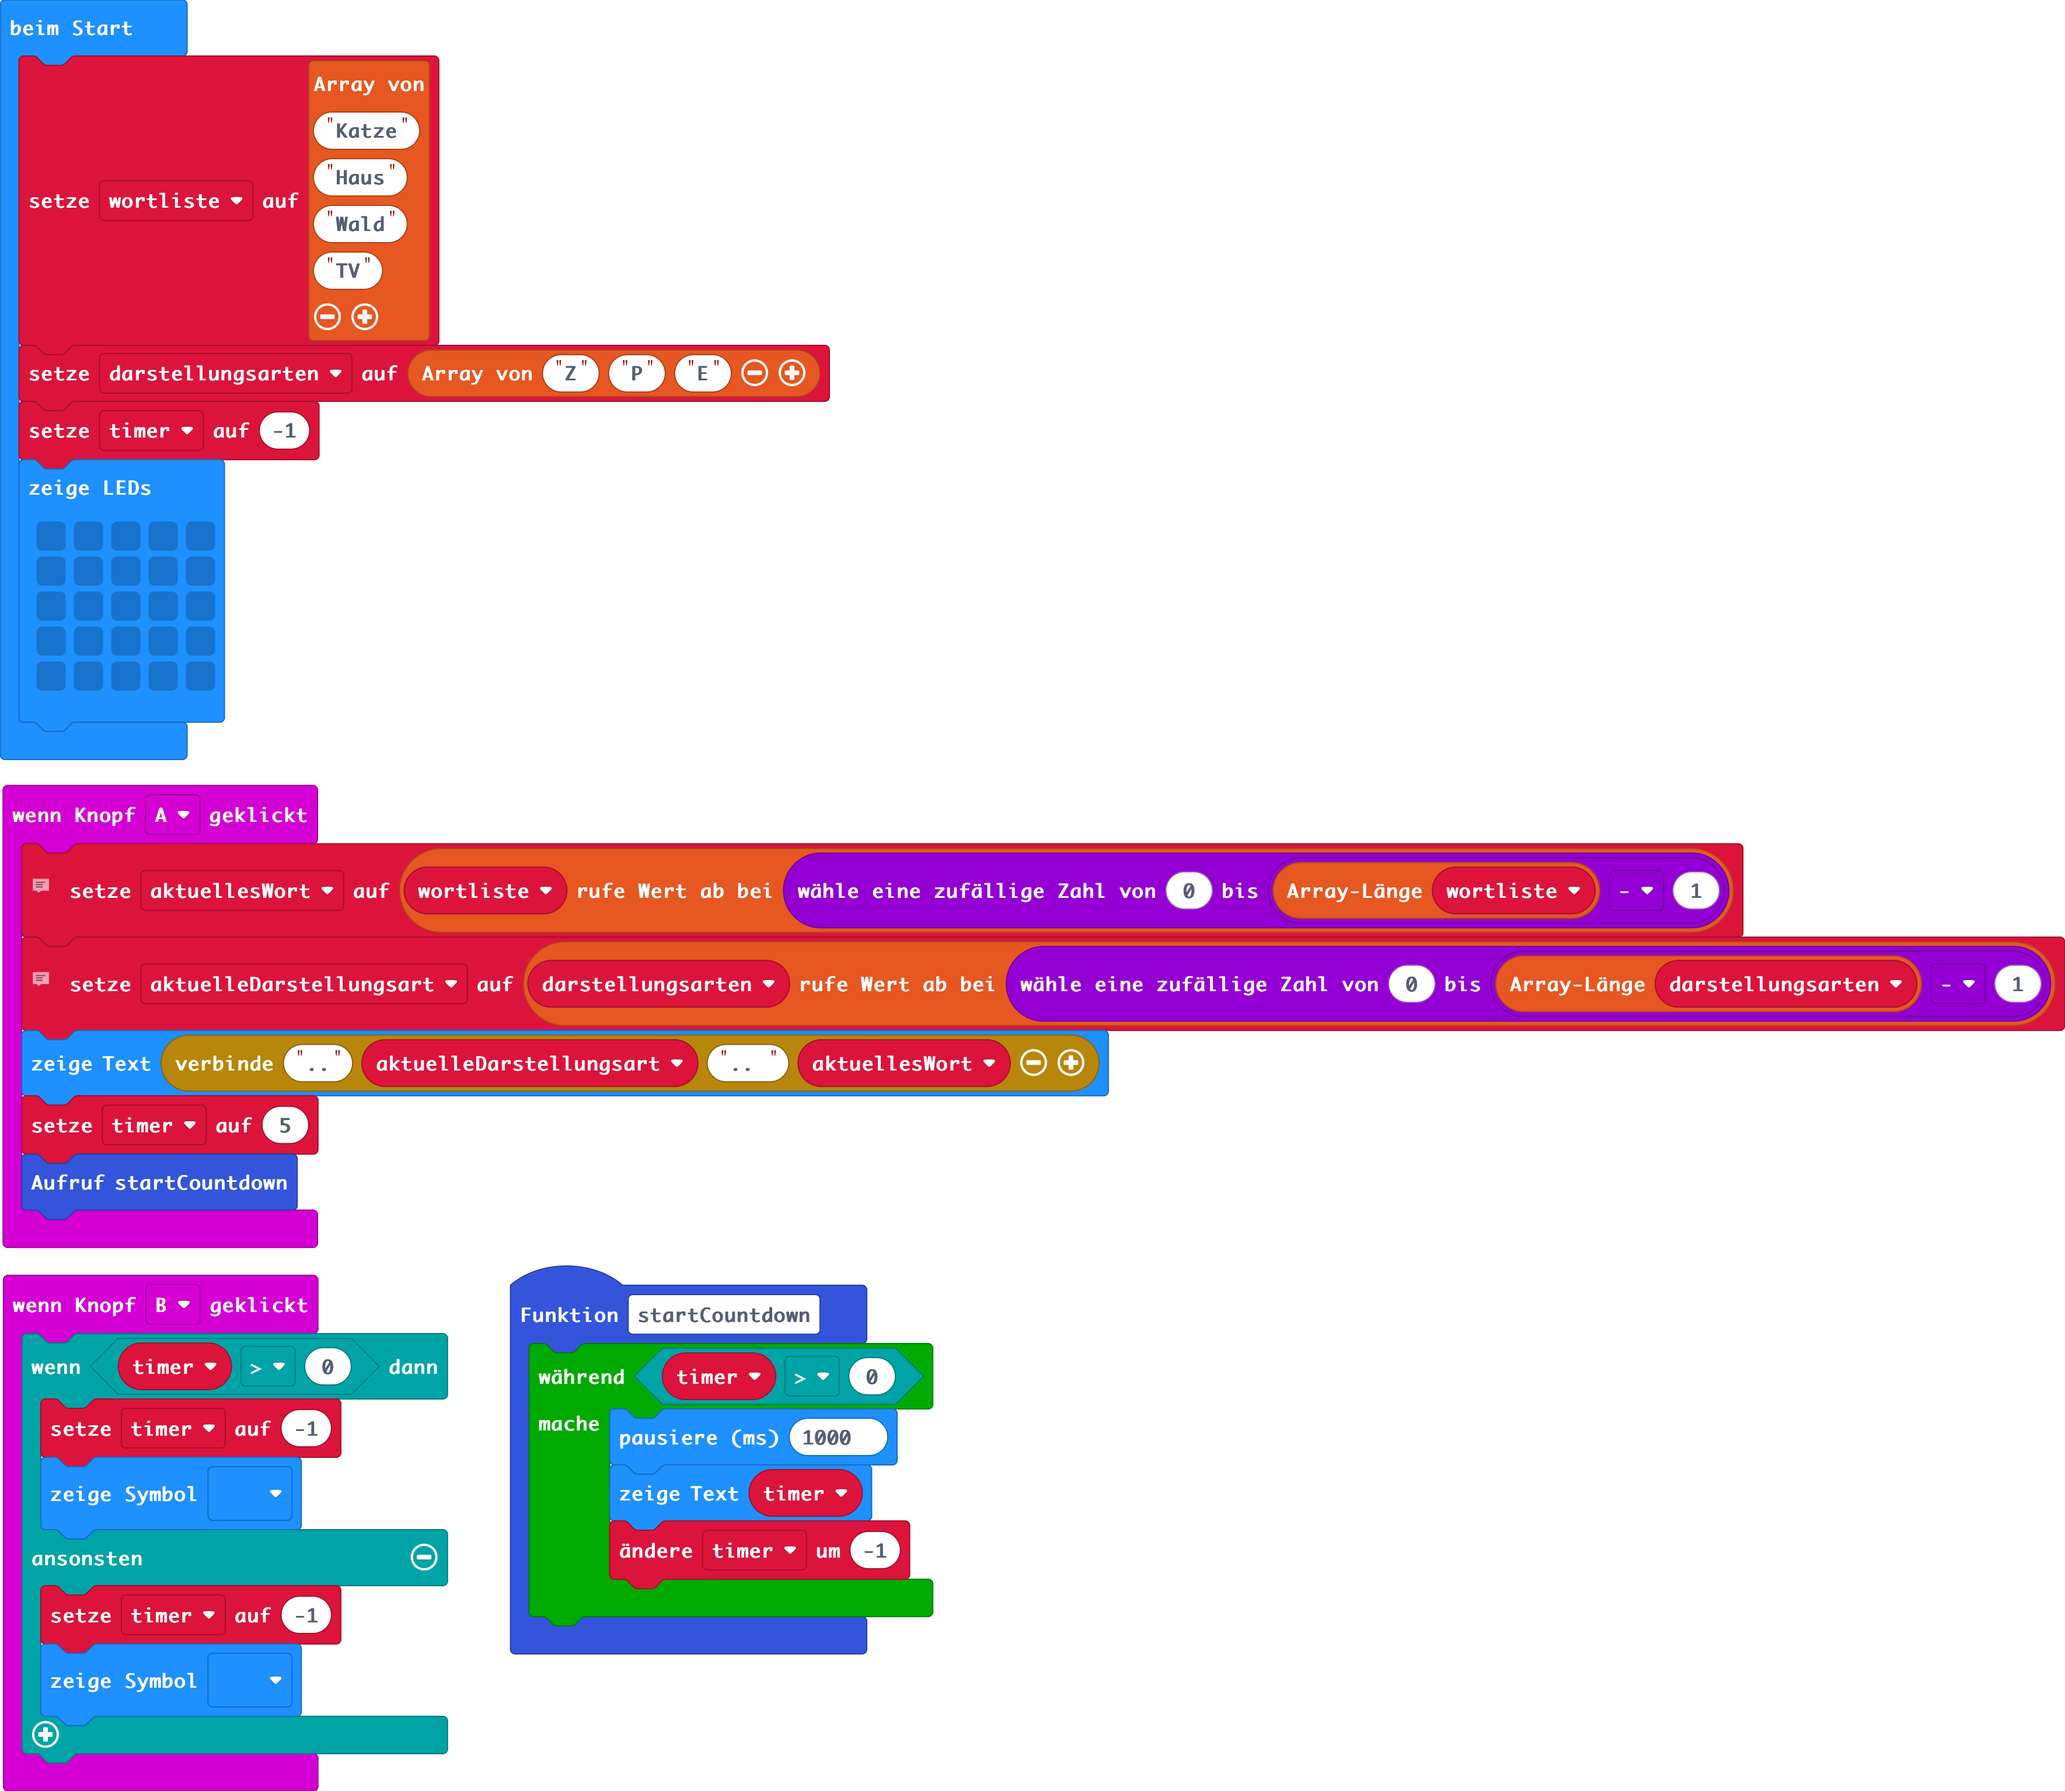
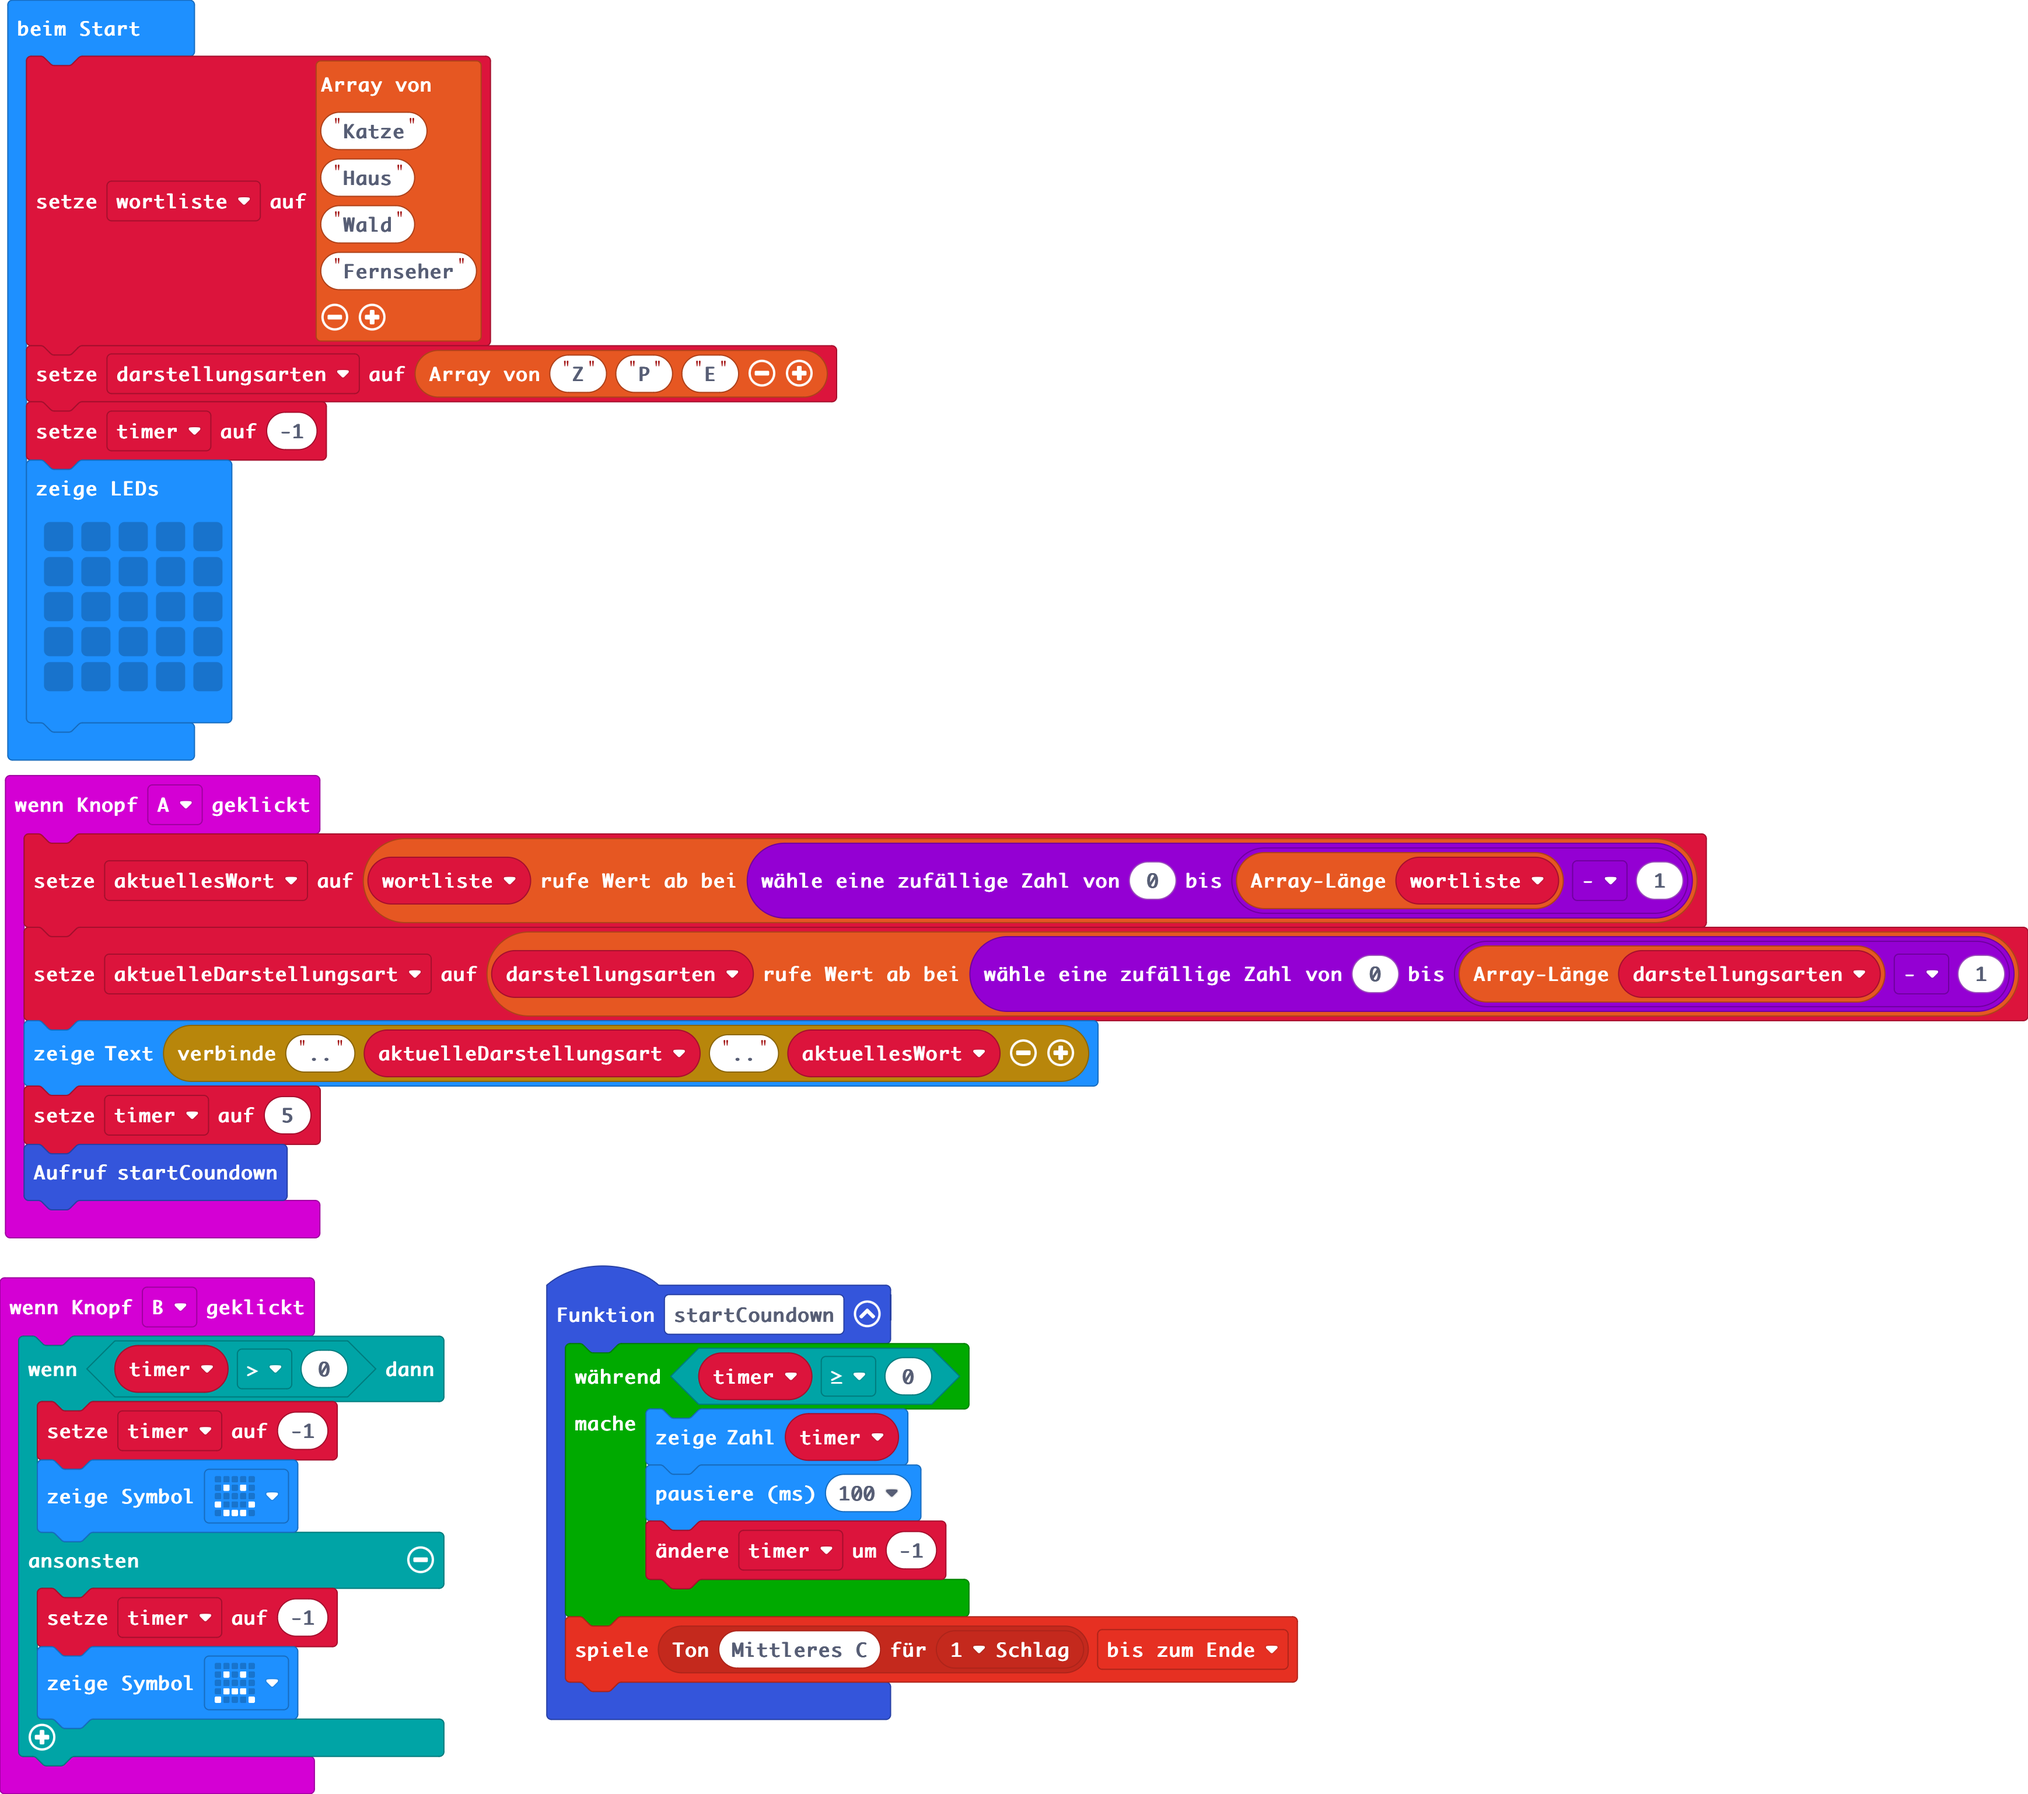
ScharadeEndstand

diff --git a/VO-Teil-2/Scharade/README.md b/VO-Teil-2/Scharade/README.md
@@ -1,4 +1,4 @@
-# SHARADE
+# SCHARADE
 
 ## Problemstellung (GRASPS-Schema)
 
@@ -66,6 +66,19 @@ Wenn der A-Knopf gedrückt wird:
 #### Blöcke in Makecode Micro:bit
 ![](./Bilder/sharade_blocks_0_1.png)
 
+#### Python
+```python
+def on_button_pressed_a():
+    global aktuellesWort
+    aktuellesWort = Wortliste[randint(0, len(Wortliste) - -1)]
+    basic.show_string("" + (aktuellesWort))
+input.on_button_pressed(Button.A, on_button_pressed_a)
+
+aktuellesWort = ""
+Wortliste: List[str] = []
+Wortliste = ["Katze", "Haus", "Wald", "Fernseher"]
+```
+
 ## V 0.2
 ### Problemanalyse und Lösungsansatz
 #### Dekomposition
@@ -97,6 +110,23 @@ Wenn der A-Knopf gedrückt wird:
 ### Implementierung
 #### Blöcke in Makecode Micro:bit
 ![](./Bilder/sharade_blocks_0_2.png)
+
+#### Python
+```python
+def on_button_pressed_a():
+    global aktuellesWort, aktuelleDarstellungsart
+    aktuellesWort = wortliste[randint(0, len(wortliste) - 1)]
+    aktuelleDarstellungsart = darstellungsarten[randint(0, len(darstellungsarten) - 1)]
+    basic.show_string(".." + aktuelleDarstellungsart + ".." + aktuellesWort)
+input.on_button_pressed(Button.A, on_button_pressed_a)
+
+aktuelleDarstellungsart = ""
+aktuellesWort = ""
+darstellungsarten: List[str] = []
+wortliste: List[str] = []
+wortliste = ["Katze", "Haus", "Wald", "Fernseher"]
+darstellungsarten = ["Z", "P", "E"]
+```
 
 ## V 0.3
 ### Problemanalyse und Lösungsansatz
@@ -156,6 +186,53 @@ Wenn der B-Knopf gedrückt wird (Signal für Wort erraten):
 ### Implementierung
 #### Blöcke in Makecode Micro:bit
 ![](./Bilder/sharade_blocks_0_3.png)
+
+#### Python
+```python
+def on_button_pressed_a():
+    global aktuellesWort, aktuelleDarstellungsart, timer
+    aktuellesWort = wortliste[randint(0, len(wortliste) - 1)]
+    aktuelleDarstellungsart = darstellungsarten[randint(0, len(darstellungsarten) - 1)]
+    basic.show_string(".." + aktuelleDarstellungsart + ".." + aktuellesWort)
+    timer = 5
+    startCoundown()
+input.on_button_pressed(Button.A, on_button_pressed_a)
+
+def on_button_pressed_b():
+    global timer
+    if timer > 0:
+        timer = -1
+        basic.show_icon(IconNames.HAPPY)
+    else:
+        timer = -1
+        basic.show_icon(IconNames.SAD)
+input.on_button_pressed(Button.B, on_button_pressed_b)
+
+def startCoundown():
+    global timer
+    while timer >= 0:
+        basic.show_number(timer)
+        basic.pause(100)
+        timer += -1
+    music.play(music.tone_playable(262, music.beat(BeatFraction.WHOLE)),
+        music.PlaybackMode.UNTIL_DONE)
+aktuelleDarstellungsart = ""
+aktuellesWort = ""
+timer = 0
+darstellungsarten: List[str] = []
+wortliste: List[str] = []
+wortliste = ["Katze", "Haus", "Wald", "Fernseher"]
+darstellungsarten = ["Z", "P", "E"]
+timer = -1
+basic.show_leds("""
+    . . . . .
+    . . . . .
+    . . . . .
+    . . . . .
+    . . . . .
+    """)
+
+```
 
 ## V 0.4
 ### Problemanalyse und Lösungsansatz
@@ -347,6 +424,8 @@ def startCountdown():
         basic.show_string("" + str((timer)))
         basic.pause(1000)
         timer += -1
+    music.play(music.tone_playable(262, music.beat(BeatFraction.WHOLE)),
+        music.PlaybackMode.UNTIL_DONE)
 punkteT2 = 0
 punkteT1 = 0
 timerLaenge = 0
@@ -357,9 +436,7 @@ aktuelleDarstellungsart = ""
 wortliste: List[str] = []
 aktuellesWort = ""
 initialisieren()
-
 ```
-
 
 ## V 0.5
 ### Problemanalyse und Lösungsansatz
@@ -371,47 +448,4 @@ Teilfunktionen (Sprint Backlog V 0.5):
   * Für eine erfolgreiche leichte Runde bekommt ein Team 1 Punkt.
   * ...
 
-Teilfunktionen:
-
 ...
-
-# Anhang mit Test-Prototypen (wird später gelöscht)
-
-## Blöcke
-![](./scharademicrobit.png)
-
-## Python Code
-
-```python
-def on_button_pressed_a():
-    global index
-    if index >= 0 and index < len(woerter):
-        countdownAnzeigen(3)
-        basic.show_string("..." + woerter[index])
-        index += 1
-    else:
-        basic.show_string("Ende")
-input.on_button_pressed(Button.A, on_button_pressed_a)
-
-def countdownAnzeigen(startenVon: number):
-    global i
-    basic.show_leds("""
-        . # # # .
-        . . . # .
-        . . # # .
-        . . . . .
-        . . # . .
-        """)
-    basic.pause(200)
-    i = startenVon
-    while i >= 0:
-        basic.pause(100)
-        basic.show_number(i)
-        i += -1
-i = 0
-woerter: List[str] = []
-index = 0
-index = 0
-woerter = ["Katze", "Gitarre"]
-```
-
